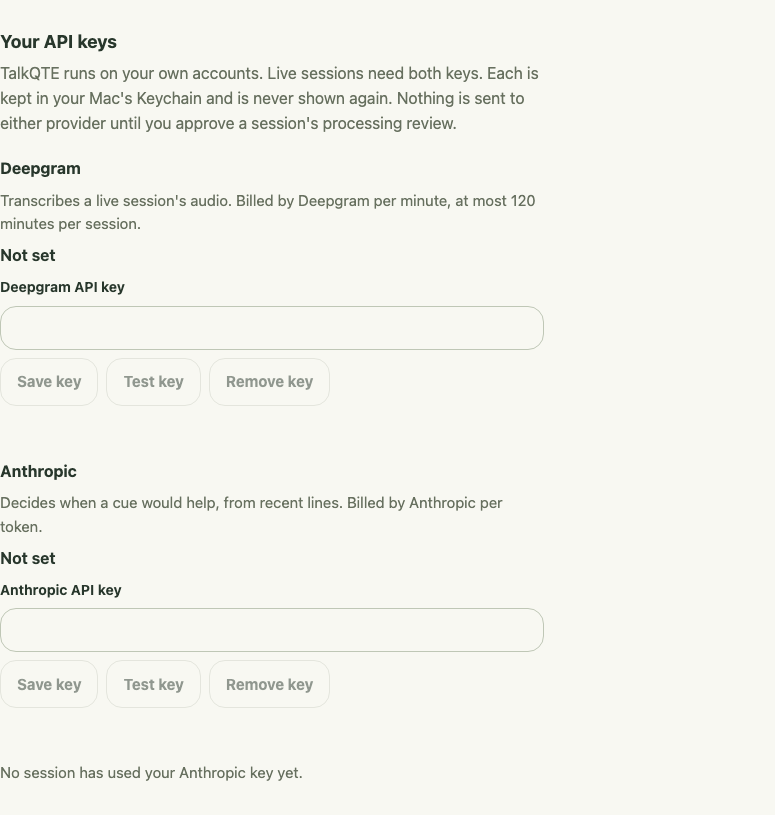
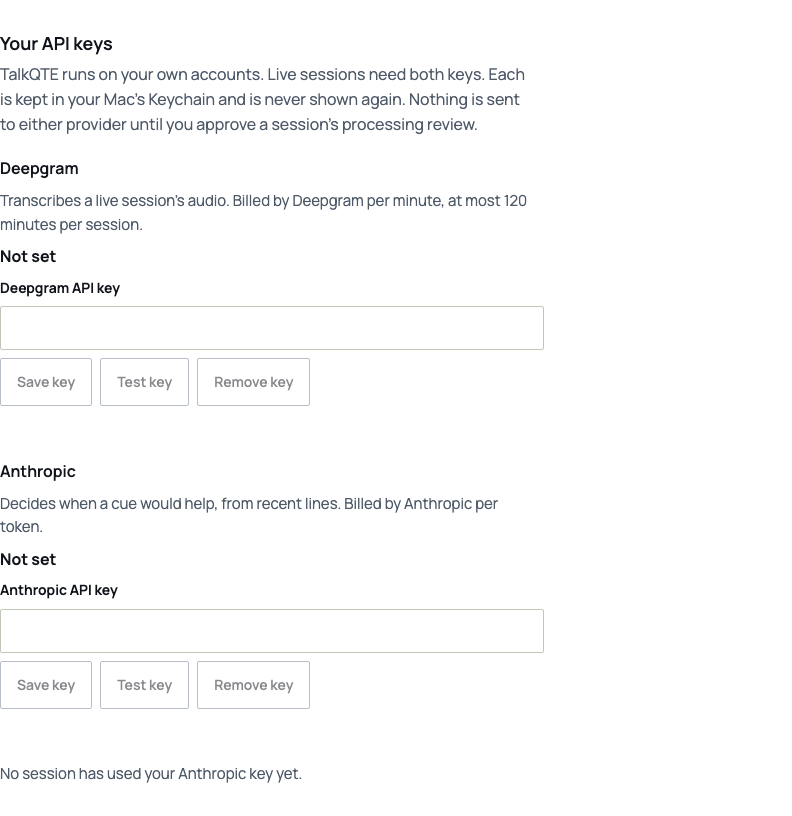
fix(settings): show an unreadable Keychain, and clear a refused key from the form
The keys form now shows a key whose Keychain item could not be read ("Could
not be read from the Keychain…") instead of "Not set", and allows Test and
Remove for it. A key refused at saving is cleared from the field, as a saved
one already was. The browser checks now say in their names whether they run
against the browser preview's fake or the fictional native fixture; neither
reaches the Rust commands, which the Rust tests cover. The Settings
screenshot is retaken after the notebook restyle.

diff --git a/tests/provider-keys.spec.ts b/tests/provider-keys.spec.ts
@@ -1,6 +1,11 @@
 import { expect, test, type Page } from '@playwright/test';
 import type {} from './fixtures/native-microphone';
 
+// These checks run the notebook against stand-ins, never the Rust commands:
+// the browser preview's in-memory fake (src/lib/providerKeys.ts), or the
+// fictional native fixture (tests/fixtures/native-provider-keys.ts) for what
+// crosses IPC. Key storage, shape checks and provider checks in Rust are
+// covered by the `provider_keys` Rust tests.
 // Fictional keys of the right shape; they reach no provider.
 const ANTHROPIC = 'sk-ant-api03-FICTIONALfictional0123456789abcdefghij-_XYZ';
 const DEEPGRAM = '0123456789abcdef0123456789abcdef01234567';
@@ -24,7 +29,7 @@ async function openNative(page: Page) {
 const row = (page: Page, name: string) =>
   page.getByRole('form', { name, exact: true });
 
-test('a new install shows both keys as not set, with what each is for', async ({
+test('browser preview fake: a new install shows both keys as not set, with what each is for', async ({
   page,
 }) => {
   await page.goto('/');
@@ -48,7 +53,7 @@ test('a new install shows both keys as not set, with what each is for', async ({
   );
 });
 
-test('a key is entered, hidden, cleared after saving and can be removed', async ({
+test('browser preview fake: a key is entered, hidden, cleared after saving or refusal, and removed', async ({
   page,
 }) => {
   await page.goto('/');
@@ -64,6 +69,7 @@ test('a key is entered, hidden, cleared after saving and can be removed', async 
     'That does not look like an Anthropic API key. It starts with sk-ant-api.',
   );
   await expect(anthropic).toContainText('Not set');
+  await expect(input).toHaveValue('');
   await input.fill(ANTHROPIC);
   await anthropic.getByRole('button', { name: 'Save key' }).click();
   await expect(anthropic).toContainText('Set, not checked yet');
@@ -80,7 +86,7 @@ test('a key is entered, hidden, cleared after saving and can be removed', async 
   await expect(anthropic.getByLabel('Anthropic API key')).toBeVisible();
 });
 
-test('the keyboard reaches every key control in order', async ({
+test('browser preview fake: the keyboard reaches every key control in order', async ({
   page,
   browserName,
 }) => {
@@ -112,7 +118,7 @@ test('the keyboard reaches every key control in order', async ({
   ).toBeFocused();
 });
 
-test('in the app, the key crosses once and only its state comes back', async ({
+test('native fixture: the key crosses IPC once and only its state comes back', async ({
   page,
 }) => {
   await openNative(page);
@@ -151,7 +157,9 @@ test('in the app, the key crosses once and only its state comes back', async ({
   await expect(page.locator('body')).not.toContainText(DEEPGRAM);
 });
 
-test('the session spend estimate is shown as an estimate', async ({ page }) => {
+test('native fixture: the session spend estimate is shown as an estimate', async ({
+  page,
+}) => {
   await openNative(page);
   await page.evaluate(() =>
     window.providerKeysTest.setUsage({
@@ -172,7 +180,7 @@ test('the session spend estimate is shown as an estimate', async ({ page }) => {
   ).toBeVisible();
 });
 
-test('a narrow window keeps the key controls inside the page', async ({
+test('browser preview fake: a narrow window keeps the key controls inside the page', async ({
   page,
 }) => {
   await page.setViewportSize({ width: 320, height: 640 });

diff --git a/src/components/ProviderKeys.tsx b/src/components/ProviderKeys.tsx
@@ -34,7 +34,9 @@ function isStatus(value: unknown): value is KeysStatus {
   const key = (v: unknown) =>
     !!v &&
     typeof v === 'object' &&
-    ['notSet', 'set', 'rejected'].includes((v as KeyStatus).state) &&
+    ['notSet', 'set', 'rejected', 'unreadable'].includes(
+      (v as KeyStatus).state,
+    ) &&
     typeof (v as KeyStatus).verified === 'boolean';
   return (
     !!value &&
@@ -47,6 +49,8 @@ function isStatus(value: unknown): value is KeysStatus {
 function stateText(name: string, status: KeyStatus | undefined) {
   if (!status) return 'Checking…';
   if (status.state === 'notSet') return 'Not set';
+  if (status.state === 'unreadable')
+    return 'Could not be read from the Keychain. Unlock it or allow access, or save the key again.';
   if (status.state === 'rejected')
     return `Rejected by ${name}. Replace it with a new key.`;
   return status.verified ? 'Set and checked' : 'Set, not checked yet';
@@ -145,7 +149,7 @@ function KeyRow({
   const [busy, setBusy] = useState<'save' | 'test' | 'remove' | null>(null);
   const [error, setError] = useState('');
   const [note, setNote] = useState('');
-  const stored = status?.state === 'set' || status?.state === 'rejected';
+  const stored = !!status && status.state !== 'notSet';
 
   const run = async (
     action: 'save' | 'test' | 'remove',
@@ -163,6 +167,8 @@ function KeyRow({
         setNote(done(next));
       }
     } catch (failure) {
+      // A refused key is not kept on screen or in memory longer than needed.
+      if (action === 'save') setDraft('');
       setError(message(failure, 'Nothing was changed. Try again.'));
     } finally {
       setBusy(null);

diff --git a/src/lib/providerKeys.ts b/src/lib/providerKeys.ts
@@ -7,7 +7,8 @@ export type KeyProvider = 'deepgram' | 'anthropic';
 
 /** What the notebook may know about a key; never the key itself. */
 export interface KeyStatus {
-  state: 'notSet' | 'set' | 'rejected';
+  /** `unreadable`: the Keychain could not be read, so it is not known. */
+  state: 'notSet' | 'set' | 'rejected' | 'unreadable';
   /** The provider accepted it at the last check in this app run. */
   verified: boolean;
 }

diff --git a/docs/provider-keys.md b/docs/provider-keys.md
@@ -10,9 +10,9 @@ Anthropic key for [cue decisions](own-key-cues.md).
 
 **Settings → Your API keys** (`src/components/ProviderKeys.tsx`) has one form
 per provider: what the key is for and how it is billed, its state (**Not
-set**, **Set, not checked yet**, **Set and checked**, or **Rejected by …
-Replace it with a new key.**), a password field that is cleared after
-saving, and **Save key**, **Test key** and **Remove key**. Errors are the
+set**, **Set, not checked yet**, **Set and checked**, **Rejected by …
+Replace it with a new key.**, or **Could not be read from the Keychain**), a password field that is cleared after
+saving or after a refused save, and **Save key**, **Test key** and **Remove key**. Errors are the
 fixed messages below, announced as alerts. Below the forms, the current
 session's cue requests and estimated spend are shown as "This session: 12 of
 400 cue requests, about $0.03 of $0.50 (an estimate, not your bill), model
